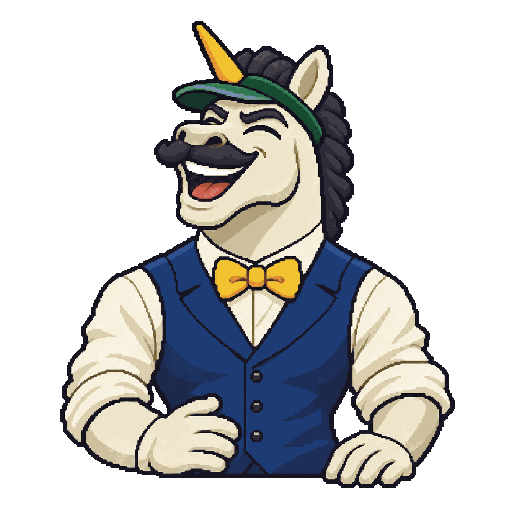
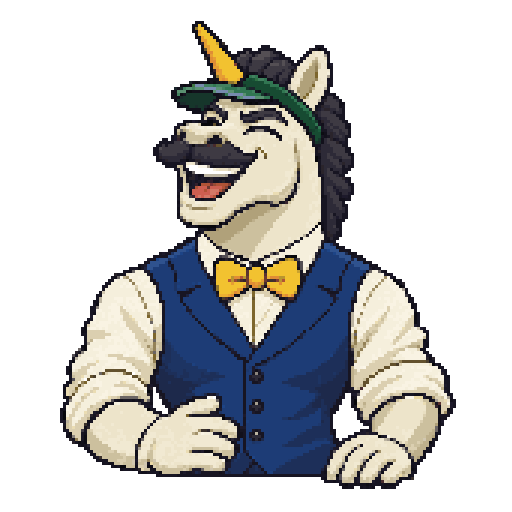
Horacio's Table: pixel-art Horacio, instruction booklet, easier questions and lower targets
- New pixel-art Horacio poses, drawn crisp
- A five-page instruction booklet opens the first time (swipe, arrows or buttons), reopens from How to play
- Questions: only broad ones about big clubs, big leagues, World Cups and Euros with obvious and deep answers (108)
- Targets 120-240 instead of 170-380; the house stands at 70% with at least two cards (busts about 1 day in 5)
- A table started today keeps its own target and house

Claude-Session: https://claude.ai/code/session_01B1Ewf1FcmBDPiqTkeHV3Ca

diff --git a/blackjockey.html b/blackjockey.html
@@ -51,7 +51,7 @@ h1{margin:2px 0 0;text-align:center;font:400 46px/.9 var(--disp);color:var(--gol
 .mc{width:38px;height:52px;border:3px solid #000;box-shadow:2px 2px 0 rgba(0,0,0,.45);display:grid;place-items:center;font:400 17px var(--disp);color:var(--ink);background:var(--c,var(--paper))}
 .mc.down{background:var(--navy) var(--back,var(--pat)) center/cover}
 .mc.down::after{content:"🐴";font-size:15px}.art-back .mc.down::after{content:none}
-.art-host .house img{image-rendering:auto;filter:drop-shadow(0 4px 0 rgba(0,0,0,.35))}
+.art-host .house img{image-rendering:pixelated;filter:drop-shadow(0 4px 0 rgba(0,0,0,.35))}
 .htot{font:400 26px var(--disp);color:#fff;text-shadow:0 2px 0 #000;min-width:52px;text-align:center;font-variant-numeric:tabular-nums;transition:color 200ms ease}
 .htot.over{color:#ffb3a8}
 
@@ -113,7 +113,37 @@ form[inert]{opacity:.6}
 .recap details{background:rgba(0,0,0,.2);border:2px solid #000;margin-bottom:6px;padding:6px 8px}
 .recap summary{cursor:pointer;font-size:17px;color:#fff}
 .recap p{margin:4px 0;font-size:16px;color:var(--sand)}.recap p i{font-style:normal;display:inline-block;width:10px;height:10px;border:2px solid #000;margin-right:5px;vertical-align:-1px}
-.rules{margin-top:14px;font-size:17px;color:var(--sand)}.rules summary{cursor:pointer;color:#fff}
+.rules{margin:14px 0 0;text-align:center}
+/* the instruction booklet: five pages, swipe or tap through. Opens by itself the first time */
+.bk{position:fixed;inset:0;z-index:60;display:grid;place-items:center;padding:16px;background:rgba(10,30,20,.72)}
+.bk[hidden]{display:none}
+.bk-book{width:100%;max-width:400px;background:var(--paper);color:var(--ink);border:3px solid #000;box-shadow:6px 6px 0 #000;overflow:hidden;touch-action:pan-y;user-select:none;-webkit-user-select:none}
+.bk-top{display:flex;align-items:center;gap:10px;background:var(--navy);color:var(--paper);border-bottom:3px solid #000;padding:6px 6px 6px 12px;font:400 17px/1 var(--disp);letter-spacing:.06em}
+.bk-top span:first-child{flex:1}.bk-top #bk-n{color:var(--gold)}
+.bk-x{width:34px;height:34px;border:2px solid #000;background:var(--paper);color:var(--ink);font:400 18px/1 var(--disp);padding:0}
+.bk-page{padding:12px 16px 4px;min-height:388px;display:flex;flex-direction:column;align-items:center;text-align:center}
+.bk-page img{width:118px;height:118px;image-rendering:pixelated;margin:-4px 0 0}
+.bk-page h2{font:400 32px/1 var(--disp);margin:2px 0 6px;color:var(--ink)}
+.bk-page p{margin:0 0 8px;font-size:19px;line-height:1.18}
+.bk-page b{color:var(--navy);font-weight:400;font-family:var(--disp);font-size:21px}
+.bk-q{font:400 17px/1.1 var(--disp);background:var(--ink);color:#fff;padding:6px 8px 4px;margin:2px 0 8px;border:2px solid #000}
+.bk-cards{display:flex;gap:4px;justify-content:center;flex-wrap:wrap;margin:2px 0 8px}
+.bkc{width:58px;height:80px;border:2px solid #000;box-shadow:2px 2px 0 rgba(0,0,0,.35);background:#fff;display:flex;flex-direction:column;text-align:left;position:relative}
+.bkc i{font:400 10px/1 var(--disp);background:var(--c);border-bottom:2px solid #000;padding:3px 3px 2px;font-style:normal;letter-spacing:.02em}
+.bkc span{font-size:12px;line-height:1;padding:3px;flex:1}
+.bkc strong{font:400 20px/1 var(--disp);text-align:right;padding:0 4px 3px;font-weight:400}
+.bkc.foul{background:var(--sand)}.bkc.foul strong{color:var(--clay)}
+.bkc.down{background:var(--navy) var(--back,var(--pat)) center/cover}
+.bkc.ok::after,.bkc.no::after{position:absolute;right:-8px;top:-9px;width:22px;height:22px;display:grid;place-items:center;border:2px solid #000;font:400 15px/1 var(--disp);color:#fff}
+.bkc.ok::after{content:"✓";background:var(--grass)}.bkc.no::after{content:"✕";background:var(--clay)}
+.bk-ladder{display:grid;grid-template-columns:repeat(5,1fr);gap:4px;width:100%;margin:2px 0 8px}
+.bk-ladder div{border:2px solid #000;background:var(--c);font:400 13px/1 var(--disp);padding:5px 2px 3px}.bk-ladder div b{display:block;font-size:22px;color:var(--ink)}
+.bk-stamp{display:inline-block;font:400 22px/1 var(--disp);background:var(--gold);border:3px solid #000;box-shadow:3px 3px 0 #000;padding:6px 10px 3px;transform:rotate(-3deg);margin:4px 0 8px}
+.bk-stamp.red{background:var(--clay);color:#fff}
+.bk-nav{display:flex;align-items:center;justify-content:space-between;gap:8px;padding:8px 12px 12px}
+.bk-nav .btn{min-width:96px}.bk-nav .btn[disabled]{visibility:hidden}
+.bk-dots{display:flex;gap:6px}.bk-dots i{width:10px;height:10px;border:2px solid #000;background:var(--sand);transition:background-color 160ms ease,transform 160ms var(--ease)}.bk-dots i.on{background:var(--gold);transform:scale(1.25)}
+@media (max-height:640px){.bk-page{min-height:0}.bk-page img{width:86px;height:86px}}
 .note{font-size:15px;color:var(--sand);opacity:.85;text-align:center;margin-top:12px}
 /* effects layer: confetti, chips and the bust flash. Never takes clicks */
 .fx{position:fixed;inset:0;pointer-events:none;z-index:50;overflow:hidden}
@@ -138,12 +168,15 @@ form[inert]{opacity:.6}
   <div class="legend"><span><i style="background:var(--t1)"></i>Tap-in 10</span><span><i style="background:var(--t2)"></i>Header 30</span><span><i style="background:var(--t3)"></i>Volley 60</span><span><i style="background:var(--t4)"></i>Bicycle 85</span><span><i style="background:var(--t5)"></i>Screamer 100</span></div></div>
  <div class="hand" id="hand" aria-label="Your cards"></div>
  <div class="panel" id="panel"></div>
- <details class="rules"><summary>How to play</summary>
-  <p>Every answer is a card worth its <b>rarity</b>: the more obvious the answer, the less it's worth. Tap-in 10 · Header 30 · Volley 60 · Bicycle kick 85 · Screamer 100.</p>
-  <p>Get as close to the target as you can in <b>up to 5 cards</b>. Over the target, you <b>bust</b>. A wrong answer or running out of time is a <b>foul</b>: 0 points, and the card is gone. You can <b>pass</b> one question.</p>
-  <p>Horacio plays a hand too: one card up, the rest face down. Stand when you think you've got him, then he turns his cards. Hit the target exactly and it's a <b>Full House</b>.</p>
- </details>
+ <p class="rules"><button type="button" class="btn w s" id="howto">📖 How to play</button></p>
  <p class="note">Prototype · questions and rarities come from the Duels question bank.</p>
+</div>
+<div class="bk" id="bk" hidden role="dialog" aria-modal="true" aria-labelledby="bk-h">
+ <div class="bk-book" id="bk-book">
+  <div class="bk-top"><span>HOW TO PLAY</span><span id="bk-n"></span><button type="button" class="bk-x" id="bk-x" aria-label="Close">✕</button></div>
+  <div class="bk-page" id="bk-page"></div>
+  <div class="bk-nav"><button type="button" class="btn w s" id="bk-prev">Back</button><span class="bk-dots" id="bk-dots"></span><button type="button" class="btn s" id="bk-next">Next</button></div>
+ </div>
 </div>
 <div class="fx" id="fx" aria-hidden="true"><div class="flash" id="flash"></div></div>
 <script>
@@ -156,11 +189,16 @@ const DAY=new Date().toLocaleDateString('en-CA',{timeZone:'Europe/Amsterdam'});
 const fnv=s=>{let h=2166136261;for(const c of String(s))h=Math.imul(h^c.charCodeAt(0),16777619)>>>0;h^=h>>>16;h=Math.imul(h,2246822507)>>>0;h^=h>>>13;h=Math.imul(h,3266489909)>>>0;return(h^h>>>16)>>>0};
 let seed=fnv(DAY)||1;
 const rnd=()=>{seed=Math.imul(seed^(seed>>>15),2246822507)>>>0;seed=Math.imul(seed^(seed>>>13),3266489909)>>>0;return((seed^=seed>>>16)>>>0)/4294967296};
-// targets only from totals that 3 to 5 real cards can make
+// targets only from totals that 3 to 5 real cards can make, kept reachable: 120 to 240 (about four ordinary cards)
 const P=TIERS.map(t=>t.p),reach=new Set();(function walk(s,n,from){if(n>=3)reach.add(s);if(n===5)return;for(let i=from;i<P.length;i++)walk(s+P[i],n+1,i)})(0,0,0);
-const TARGETS=[...reach].filter(x=>x>=170&&x<=380).sort((a,b)=>a-b),TARGET=TARGETS[Math.floor(rnd()*TARGETS.length)];
-// the house: Horacio draws until he has at least 75% of the target (he can bust, too)
-const DEALER=(()=>{const h=[];let s=0;const w=[.2,.25,.25,.18,.12];while(s<TARGET*.75&&h.length<5){let r=rnd(),i=0;while(r>w[i]&&i<4){r-=w[i];i++}h.push(P[i]);s+=P[i]}return h})();
+// the house: Horacio draws until he has enough (he can bust, too)
+// (he stands at 70% with at least two cards and draws mostly ordinary cards: he busts about 1 day in 5)
+function table(lo,hi,old){seed=fnv(DAY)||1;const ts=[...reach].filter(x=>x>=lo&&x<=hi).sort((a,b)=>a-b),t=ts[Math.floor(rnd()*ts.length)];
+ const h=[];let s=0;const w=old?[.2,.25,.25,.18,.12]:[.25,.3,.25,.12,.08],stop=old?.75:.7,min=old?1:2;while((s<t*stop||h.length<min)&&h.length<5){let r=rnd(),i=0;while(r>w[i]&&i<4){r-=w[i];i++}h.push(P[i]);s+=P[i]}return{t,d:h}}
+// a table already started today keeps its target and house (saved with the game); one started before this version gets its old numbers back
+const SAVED=new URLSearchParams(location.search).has('new')?null:(()=>{try{return JSON.parse(localStorage.getItem('uc-rb-'+DAY))}catch{return null}})();
+const TBL=SAVED&&Number.isFinite(SAVED.t)&&Array.isArray(SAVED.d)&&SAVED.d.length?{t:SAVED.t,d:SAVED.d}:SAVED&&SAVED.hand&&SAVED.hand.length?table(170,380,true):table(120,240);
+const TARGET=TBL.t,DEALER=TBL.d;
 const DTOT=DEALER.reduce((a,b)=>a+b,0),SCALE=TARGET/.8;
 
 // ── helpers ──
@@ -238,6 +276,7 @@ function host(p,line){const img=$('host');
 let BANK=[],DECK=[];
 let S=null;try{S=JSON.parse(ls(KEY)||'null')}catch{}
 if(!S||!Array.isArray(S.hand))S={hand:[],qi:0,passed:false,done:false};
+S.t=TARGET;S.d=DEALER;
 const save=()=>ls(KEY,JSON.stringify(S));
 const total=()=>S.hand.reduce((a,c)=>a+c.p,0);
 $('date').textContent=new Date(DAY+'T12:00:00Z').toLocaleDateString('en-GB',{weekday:'long',day:'numeric',month:'long',timeZone:'UTC'});
@@ -373,17 +412,59 @@ function confetti(n,from){if(REDUCE)return;const r=from.getBoundingClientRect(),
   const a=d.animate([{transform:'translate(-50%,-50%) scale(.6)',opacity:1},{transform:`translate(calc(-50% + ${vx}px),calc(-50% + ${vy}px)) rotate(${rot*.4}deg)`,opacity:1,offset:.3,easing:'cubic-bezier(.3,.6,.6,1)'},{opacity:1,offset:.8},{transform:`translate(calc(-50% + ${vx*1.5}px),calc(-50% + ${vy+innerHeight*.75}px)) rotate(${rot}deg)`,opacity:0}],{duration:dur,easing:'cubic-bezier(.2,.7,.4,1)'});
   a.onfinish=()=>d.remove()}}
 
+// ── which questions can be dealt: easy ones, where everybody knows some answers and can choose how famous to go.
+// About big clubs, the big leagues, World Cups and Euros; at least 2 obvious (10) and 2 well-known (30) answers, 4+ rarities, 18+ answers.
+// Not: goalkeepers, small nationality-in-league lists, Ballon d'Or, pre-2000 eras (too hard to pick from)
+const BIG=/Real Madrid|Barcelona|Man United|Man City|Liverpool|Chelsea|Arsenal|Juventus|Milan|Inter\b|Bayern|PSG|Paris|Atlético|Tottenham|Dortmund|Napoli|Premier League|La Liga|Serie A|Bundesliga|Champions League|World Cup|Euro/;
+const NICHE=/goalkeeper|Croatian|Serbian|Belgian|Colombian|Moroccan|Uruguayan|Spanish player who played in the Bundesliga|Ballon|between 19/i;
+function easy(q){if(!q||!q.id||!q.prompt||!Array.isArray(q.answers)||q.answers.length<18||!BIG.test(q.prompt)||NICHE.test(q.prompt))return false;
+ const n={};for(const a of q.answers){const p=FAME[a.fame];if(p)n[p]=(n[p]||0)+1}return(n[10]||0)>=2&&(n[30]||0)>=2&&Object.keys(n).length>=4}
 // ── today's deck: every question gets a number from (date, question id) and the lowest six are dealt.
 // The same for everyone, and adding questions to the bank later never reshuffles a day that already started ──
 function buildDeck(){const byId=new Map(BANK.map(q=>[q.id,q]));
  if(Array.isArray(S.deck)&&S.deck.length>=DECKN&&S.deck.every(id=>byId.has(id)))return S.deck.map(id=>byId.get(id));
- const good=BANK.filter(q=>q.id&&q.prompt&&Array.isArray(q.answers)&&new Set(q.answers.map(a=>FAME[a.fame])).size>=4&&q.answers.length>=12);
+ const good=BANK.filter(easy);
  const order=good.map(q=>[fnv(DAY+'|'+q.id),q]).sort((a,b)=>a[0]-b[0]||(a[1].id<b[1].id?-1:1)).map(x=>x[1]);
  // a hand started before this version keeps its questions in front
  const ids=[];for(const c of S.hand)if(c.q&&byId.has(c.q)&&!ids.includes(c.q))ids.push(c.q);
  for(const q of order){if(ids.length>=DECKN)break;if(!ids.includes(q.id))ids.push(q.id)}
  if(S.qi<S.hand.length)S.qi=S.hand.length;
  S.deck=ids;save();return ids.map(id=>byId.get(id))}
+
+// ── the instruction booklet ──
+const bkc=(n,p,t)=>t==='foul'?`<div class="bkc foul"><i style="--c:var(--sand)">FOUL</i><span>${n}</span><strong>0</strong></div>`:t==='down'?'<div class="bkc down"></div>'
+ :`<div class="bkc${t?' '+t:''}"><i style="--c:${tierOf(p).c}">${tierOf(p).n.toUpperCase()}</i><span>${n}</span><strong>${p}</strong></div>`;
+const PAGES=[
+ {pose:'clap',h:'Welcome to my table!',b:`<p>Every day I deal a <b>target number</b>. Get as close to it as you can with your cards… <b>without going over</b>.</p>
+  <div class="bk-ladder" style="grid-template-columns:1fr 1fr 1fr"><div style="--c:var(--sand)">TARGET<b>${TARGET}</b></div><div style="--c:var(--t2)">CARDS<b>1–5</b></div><div style="--c:var(--t4)">SECONDS<b>30</b></div></div><p>Same table for everyone, a new one every day.</p>`},
+ {pose:'show',h:'Every answer is a card',b:`<p>I ask a question with lots of right answers. <b>The more famous your answer, the less it's worth.</b></p>
+  <div class="bk-q">Name a player who played for Real Madrid in the 2010s</div>
+  <div class="bk-cards">${bkc('Cristiano Ronaldo',10)}${bkc('Luka Modrić',30)}${bkc('Marcelo',60)}${bkc('Theo Hernández',85)}${bkc('Diego López',100)}</div>`},
+ {pose:'think',h:'Choose your card',b:`<p>You decide what each card is worth. Need a lot? Go for a <b>deep cut</b>. Need a little? Play an <b>obvious</b> one.</p>
+  <div class="bk-ladder">${TIERS.map(t=>`<div style="--c:${t.c}">${t.n.replace(' kick','')}<b>${t.p}</b></div>`).join('')}</div>
+  <p>Target 150, you have 120: a Header (30) is perfect. A Screamer? <b>Bust.</b></p><div class="bk-cards">${bkc('Luka Modrić',30,'ok')}${bkc('Diego López',100,'no')}</div>`},
+ {pose:'shock',h:'Fouls and passes',b:`<p>A <b>wrong answer</b> or <b>running out of time</b> is a foul: 0 points, and that card is gone.</p>
+  <div class="bk-cards">${bkc('Neymar',0,'foul')}</div><p>Don't like a question? You can <b>pass once</b> per game. Go over the target and it's a <b>bust</b>.</p><span class="bk-stamp red">BUST!</span>`},
+ {pose:'wink',h:'Beat the house',b:`<p>I play too: <b>one card up</b>, the rest face down. Stop (<b>Stand</b>) when you think you beat me.</p>
+  <div class="bk-cards">${bkc('',DEALER[0])}${bkc('',0,'down')}${bkc('',0,'down')}</div>
+  <p>Closer to the target than me wins. Hit it <b>exactly</b> and it's a…</p><span class="bk-stamp">FULL HOUSE!</span>`}];
+let bkI=0,bkBack=null;
+function bkShow(i,dir){bkI=Math.max(0,Math.min(PAGES.length-1,i));const pg=PAGES[bkI],el=$('bk-page');
+ el.innerHTML=`<img src="/blackjack/art/horacio-${pg.pose}.png" alt="" onerror="this.src='/rosco/host/idle-1.png'"><h2 id="bk-h">${pg.h}</h2>${pg.b}`;
+ $('bk-n').textContent=`${bkI+1} / ${PAGES.length}`;$('bk-dots').innerHTML=PAGES.map((_,j)=>`<i class="${j===bkI?'on':''}"></i>`).join('');
+ $('bk-prev').disabled=bkI===0;const last=bkI===PAGES.length-1;$('bk-next').textContent=last?(S.done?'Got it':'Deal me in'):'Next';
+ if(dir)anim(el,[{opacity:0,transform:`translateX(${dir*28}px)`},{opacity:1,transform:'none'}],{duration:240,easing:EASE})}
+function bkOpen(){bkBack=document.activeElement;$('bk').hidden=false;bkShow(0);
+ anim($('bk'),[{opacity:0},{opacity:1}],{duration:200,easing:'ease-out'});anim($('bk-book'),[{opacity:0,transform:'translateY(14px) scale(.96)'},{opacity:1,transform:'none'}],{duration:280,easing:EASE});$('bk-next').focus()}
+function bkClose(play){ls('uc-rb-guide','1');const done=()=>{$('bk').hidden=true;if(play&&$('go'))$('go').click();else if(bkBack&&bkBack.focus)bkBack.focus()};
+ const a=anim($('bk-book'),[{opacity:1,transform:'none'},{opacity:0,transform:'translateY(10px) scale(.97)'}],{duration:160,easing:'ease-in'});anim($('bk'),[{opacity:1},{opacity:0}],{duration:160});if(a)a.onfinish=done;else done()}
+$('howto').onclick=bkOpen;$('bk-x').onclick=()=>bkClose(false);$('bk-prev').onclick=()=>bkShow(bkI-1,-1);
+$('bk-next').onclick=()=>bkI===PAGES.length-1?bkClose(true):bkShow(bkI+1,1);
+$('bk').addEventListener('click',e=>{if(e.target===$('bk'))bkClose(false)});
+$('bk').addEventListener('keydown',e=>{if(e.key==='Escape')bkClose(false);else if(e.key==='ArrowRight'&&bkI<PAGES.length-1)bkShow(bkI+1,1);else if(e.key==='ArrowLeft'&&bkI>0)bkShow(bkI-1,-1)});
+{let x0=null,y0=0;const bk=$('bk-book');bk.addEventListener('pointerdown',e=>{x0=e.clientX;y0=e.clientY});
+ bk.addEventListener('pointerup',e=>{if(x0==null)return;const dx=e.clientX-x0,dy=e.clientY-y0;x0=null;if(Math.abs(dx)>45&&Math.abs(dx)>Math.abs(dy)*1.3){if(dx<0&&bkI<PAGES.length-1)bkShow(bkI+1,1);else if(dx>0&&bkI>0)bkShow(bkI-1,-1)}});
+ bk.addEventListener('pointercancel',()=>{x0=null})}
 
 // ── start ──
 async function load(){for(let k=0;k<3;k++){try{const r=await fetch('/duel/bank.json',{cache:k?'reload':'default'});if(r.ok){const b=await r.json();if(Array.isArray(b)&&b.length)return b}}catch{}await wait(600*(k+1))}return null}
@@ -400,7 +481,8 @@ async function start(){drawDealer(false);drawHand(false);host('idle-1','Shufflin
  if(S.hand.length)return decide();
  host('excited',`Welcome to my table! Target ${TARGET}. Every answer is worth its rarity: obvious ones 10, deep cuts 100. Up to five cards. Go over… and you bust.`);
  $('panel').innerHTML=`<div class="choice" style="grid-template-columns:1fr"><button class="btn" id="go">Deal me in</button></div><p class="hint">The house shows ${DEALER[0]}. Beat it without going over ${TARGET}.</p>`;panelIn();
- $('go').onclick=()=>{if(lock)return;lock=true;ask()}}
+ $('go').onclick=()=>{if(lock||!$('bk').hidden)return;lock=true;ask()};
+ if(!ls('uc-rb-guide'))setTimeout(bkOpen,REDUCE?0:500)}
 start();
 })();
 </script>
